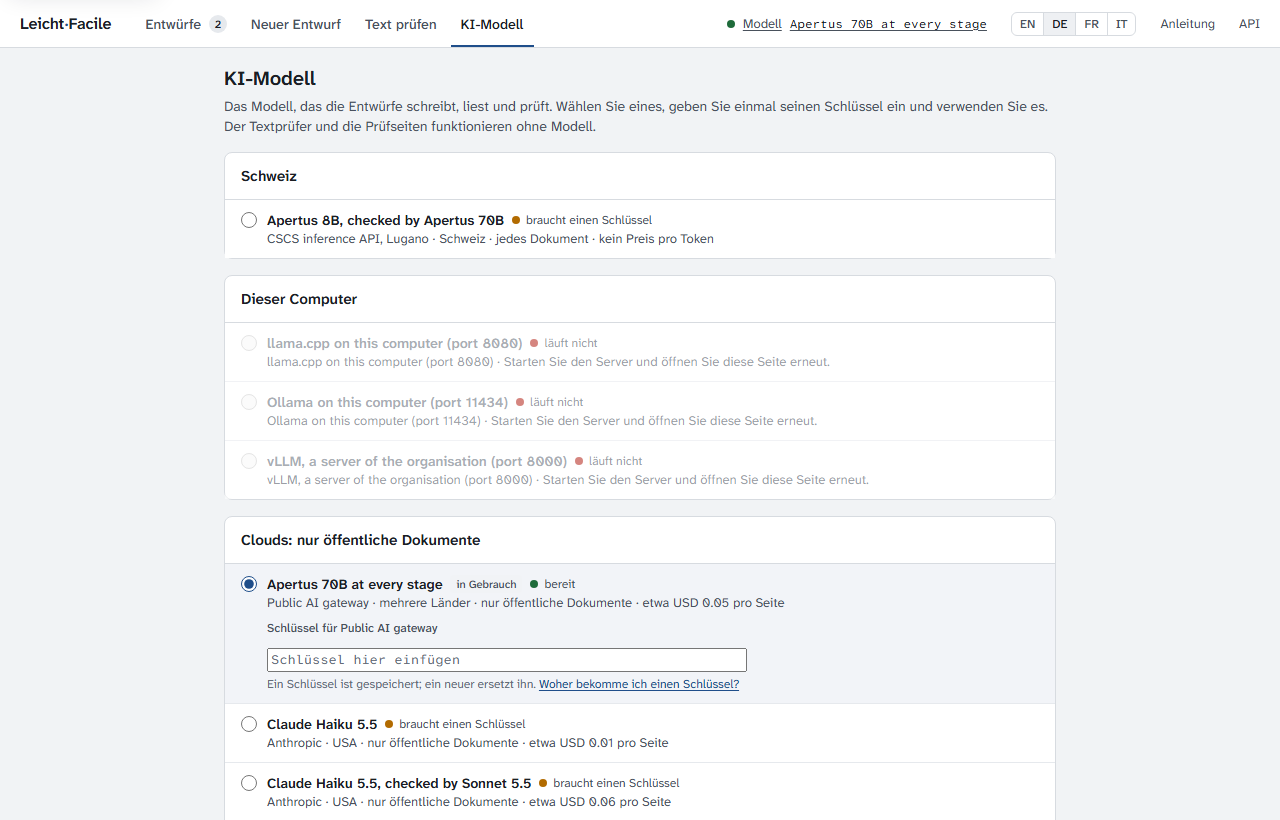
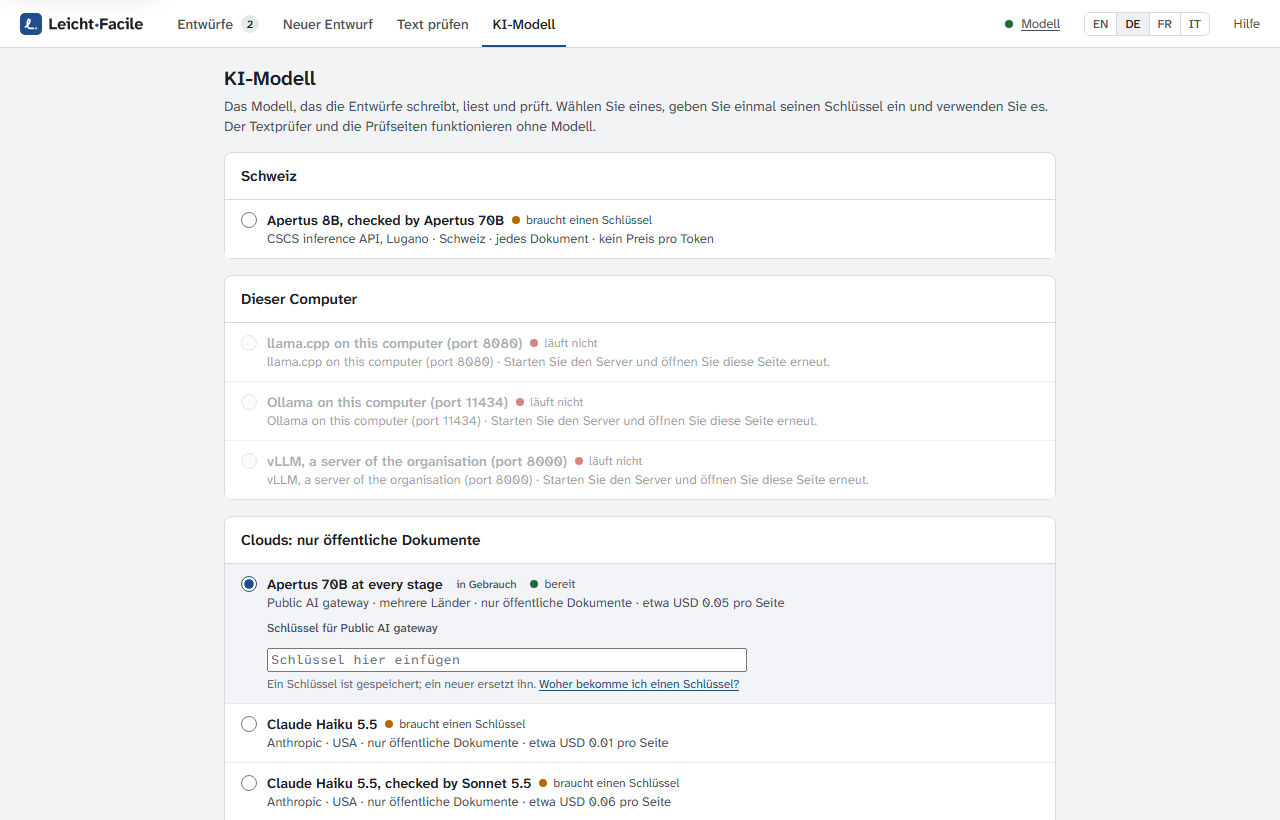
One-time hints with a cross, How it works in the empty state, a reviewer's app bar, examples by interface language

diff --git a/src/leichtfacile/web/templates/index.html b/src/leichtfacile/web/templates/index.html
@@ -11,19 +11,6 @@
     <a class="btn btn-primary btn-lg" href="/new">{{ icons.icon('plus') }}{{ t('site.new') }}</a>
   </div>
 
-  {% if total %}
-  <section class="intro" id="intro" aria-label="{{ t('drafts.how.title') }}">
-    <span class="intro-title">{{ t('drafts.how.title') }}</span>
-    <ol>
-      <li><span class="stepno" aria-hidden="true">1</span>{{ t('drafts.how.read') }}</li>
-      <li><span class="stepno" aria-hidden="true">2</span>{{ t('drafts.how.check', count=rule_count) }}</li>
-      <li><span class="stepno" aria-hidden="true">3</span>{{ t('drafts.how.judge') }}</li>
-      <li><span class="stepno" aria-hidden="true">4</span>{{ t('drafts.how.review') }}</li>
-    </ol>
-    <button type="button" class="btn btn-quiet btn-icon btn-sm js-only" id="intro-close" aria-label="{{ t('drafts.how.hide') }}">{{ icons.icon('x', 14) }}</button>
-  </section>
-  {% endif %}
-
   {# server.workspaces: the list belongs to this browser's workspace; the link opens it anywhere. #}
   {% if workspace_token %}
   <section class="ws-strip" aria-labelledby="workspace-title">
@@ -141,15 +128,34 @@
     <div class="empty">
       <h2>{{ t('drafts.empty.title') }}</h2>
       <p>{{ t('site.tagline', country=t.country) }}</p>
+      <section class="how" aria-labelledby="how-title">
+        <h3 id="how-title">{{ t('drafts.how.title') }}</h3>
+        <ol>
+          <li><span class="stepno" aria-hidden="true">1</span>{{ t('drafts.how.read') }}</li>
+          <li><span class="stepno" aria-hidden="true">2</span>{{ t('drafts.how.check', count=rule_count) }}</li>
+          <li><span class="stepno" aria-hidden="true">3</span>{{ t('drafts.how.judge') }}</li>
+          <li><span class="stepno" aria-hidden="true">4</span>{{ t('drafts.how.review') }}</li>
+        </ol>
+      </section>
       <p>{{ t('drafts.empty.text') }}</p>
+      {# The example letters: those in the interface language first (pages.featured_examples),
+         the others behind "More examples" (app.js; all of them without it). #}
+      {% if examples %}
       <div class="actions">
+        <span class="examples-label">{{ t('index.examples') }}</span>
         {% for e in examples %}<a class="btn" href="/new?example={{ e.id }}"{% if e.lang %} lang="{{ e.lang }}"{% endif %}>{{ e.title }}</a>{% endfor %}
-        <a class="btn btn-primary" href="/new">{{ icons.icon('plus') }}{{ t('site.new') }}</a>
+        {% if more_examples %}
+        <button type="button" class="btn btn-quiet js-only" data-more-examples>{{ t('index.more_examples') }}</button>
+        <span class="examples-more">{% for e in more_examples %}<a class="btn" href="/new?example={{ e.id }}"{% if e.lang %} lang="{{ e.lang }}"{% endif %}>{{ e.title }}</a>{% endfor %}</span>
+        {% endif %}
       </div>
+      {% endif %}
+      <div class="actions"><a class="btn btn-primary btn-lg" href="/new">{{ icons.icon('plus') }}{{ t('site.new') }}</a></div>
     </div>
     {% endif %}
   </div>
 
-  <p class="pagefoot">Leicht·Facile {{ version }}. {{ t('site.footer') }}</p>
+  {# The API's documentation pages exist when server.api_docs is on. #}
+  <p class="pagefoot">Leicht·Facile {{ version }}. {{ t('site.footer') }}{% if settings.server.api_docs %} <a href="/docs">API</a>{% endif %}</p>
 </div>
 {% endblock %}

diff --git a/src/leichtfacile/web/templates/base.html b/src/leichtfacile/web/templates/base.html
@@ -11,7 +11,18 @@
 <link rel="stylesheet" href="/static/app.css">
 <script nonce="{{ request.state.csp_nonce }}">
 document.documentElement.classList.add("js");
-try { if (localStorage.getItem("lf-intro-hidden") === "1") document.documentElement.classList.add("intro-hidden"); } catch (e) {}
+// The one-time hints closed in this browser (_hint.html; app.js keeps their names in
+// localStorage) are hidden before the first paint. A name is letters and hyphens.
+try {
+  var closed = JSON.parse(localStorage.getItem("lf-hints-hidden") || "[]");
+  var style = document.createElement("style");
+  style.id = "lf-hints";
+  style.textContent = (Array.isArray(closed) ? closed : [])
+    .filter(function (name) { return /^[a-z-]+$/.test(name); })
+    .map(function (name) { return '[data-hint="' + name + '"]{display:none !important}'; })
+    .join("");
+  document.head.appendChild(style);
+} catch (e) {}
 </script>
 </head>
 <body class="{% block body_class %}{% endblock %}">
@@ -25,10 +36,12 @@ try { if (localStorage.getItem("lf-intro-hidden") === "1") document.documentElem
     {% if model_page %}<a href="/model"{% if section == 'model' %} aria-current="page"{% endif %}>{{ t('site.model') }}</a>{% endif %}
   </nav>
   <span class="spacer"></span>
-  {# The preset in use: the dot follows /readyz (app.js); the name links to the model page. #}
-  <{{ 'a href="/model"' if model_page else 'span' }} class="endpoint" id="endpoint-status" data-endpoint data-url="/readyz" title="{{ t('js.endpoint.unknown') }}">
-    <span class="ep-dot" aria-hidden="true"></span><span class="ep-label">{{ t('site.endpoint') }}</span>
-    <code>{{ settings.llm.title if model_ready else t('model.none') }}</code><span class="visually-hidden" data-endpoint-text>{{ t('js.endpoint.unknown') }}</span>
+  {# The model in use: a dot that follows /readyz (app.js) and the word "Model" ("No
+     model" while the preset lacks its key); the preset's title and the status are the
+     tooltip and the text a screen reader hears. A link to the model page. #}
+  {% set model_status = (settings.llm.title ~ '. ' ~ t('js.endpoint.unknown')) if model_ready else t('model.none') %}
+  <{{ 'a href="/model"' if model_page else 'span' }} class="endpoint" id="endpoint-status" data-endpoint data-url="/readyz"{% if model_ready %} data-model="{{ settings.llm.title }}"{% endif %} title="{{ model_status }}">
+    <span class="ep-dot" aria-hidden="true"></span><span class="ep-label">{{ t('site.endpoint') if model_ready else t('site.no_model') }}</span><span class="visually-hidden" data-endpoint-text>{{ model_status }}</span>
   </{{ 'a' if model_page else 'span' }}>
   {% set languages = ui_languages() %}
   {% if languages | length > 1 %}
@@ -40,7 +53,6 @@ try { if (localStorage.getItem("lf-intro-hidden") === "1") document.documentElem
   </nav>
   {% endif %}
   <a class="api" href="{{ t('site.guide_url') }}" title="{{ t('site.guide_title') }}" target="_blank" rel="noopener">{{ t('site.guide') }}</a>
-  <a class="api" href="/docs">API</a>
 </header>
 {% if notice %}<div class="site-notice" role="note">{{ notice }}</div>{% endif %}
 <main id="main" tabindex="-1">

diff --git a/src/leichtfacile/web/templates/review.html b/src/leichtfacile/web/templates/review.html
@@ -1,6 +1,7 @@
 {% extends "base.html" %}
 {% import "_icons.html" as icons with context %}
 {% import "_menus.html" as menus with context %}
+{% import "_hint.html" as hints with context %}
 {% block title %}{{ t('review.title', title=title) }} - Leicht·Facile{% endblock %}
 {% block body_class %}fit-screen{% endblock %}
 {% block content %}
@@ -140,7 +141,8 @@
       </article>
     {% endfor %}
     {% if v.glossary_rows %}
-      <h3 class="draft-section" lang="{{ ui_lang }}">{{ t('review.glossary') }} <span class="hint">{{ t('review.glossary_review_hint') }}</span></h3>
+      <h3 class="draft-section" lang="{{ ui_lang }}">{{ t('review.glossary') }}</h3>
+      {{ hints.note('glossary', t('review.glossary_review_hint'), ui_lang) }}
       {% for g in v.glossary_rows %}
       <article class="block kind-glossary{% if g.decided %} decided {{ g.decided }}{% endif %}" id="blk-{{ g.gid }}"
                data-block="{{ g.gid }}" data-segments="" data-facts="" tabindex="0">
@@ -198,8 +200,8 @@
           </div>
           <div class="fs-legend" aria-hidden="true">{{ v.facts_text }}</div>
           {% endif %}
-          <p class="hint">{{ t('review.facts_hint') }}</p>
         </div>
+        {{ hints.note('facts', t('review.facts_hint')) }}
         {% for f in v.facts_sorted %}
         <button type="button" class="fact fact-{{ f.status }}" data-fact="{{ f.fact.id }}" data-fact-segments="{{ f.fact.segment_ids | join(' ') }}" aria-pressed="false">
           <span class="fact-top">{{ icons.sev(f.status) }}<span class="id">{{ f.fact.id }}</span>{% if f.expected %}<span class="chip" lang="{{ doc_lang }}">{{ f.expected }}</span>{% endif %}<span class="fstatus">{{ t('fact.' ~ f.status) }}</span></span>
@@ -221,7 +223,7 @@
 
       <section class="tabpanel" id="panel-findings" role="tabpanel" aria-labelledby="tab-findings">
         <h3 class="tabpanel-title">{{ t('review.doc_findings') }}</h3>
-        <p class="section-intro">{{ t('review.findings_hint') }}</p>
+        {{ hints.note('findings', t('review.findings_hint')) }}
         {% for g in v.finding_groups %}
         <div class="group">
           <div class="group-head">{{ icons.sev(g.worst, t('sev.' ~ g.worst)) }}<span class="rid">{{ g.rule_id }}</span><span class="title">{{ g.title }}</span><span class="n">{{ g.issues | length }}</span></div>
@@ -239,7 +241,7 @@
       <section class="tabpanel" id="panel-questions" role="tabpanel" aria-labelledby="tab-questions">
         <h3 class="tabpanel-title">{{ t('review.core') }}</h3>
         {% if v.core %}
-        <p class="section-intro">{{ t('review.core_hint') }}</p>
+        {{ hints.note('questions', t('review.core_hint')) }}
         <dl class="qa">
           {% for c in v.core %}
           <div><dt>{{ c.label }}</dt><dd lang="{{ doc_lang }}"{% if c.answer.segment_ids %} class="linkable" role="button" tabindex="0" data-segments="{{ c.answer.segment_ids | join(' ') }}"{% endif %}>{% if c.answer.text %}{{ c.answer.text }}{% else %}<span class="muted" lang="{{ ui_lang }}">{{ t('core.unanswered') }}</span>{% endif %}</dd></div>

diff --git a/src/leichtfacile/web/templates/_progress.html b/src/leichtfacile/web/templates/_progress.html
@@ -2,6 +2,7 @@
    root carries the header's running line, which app.js copies at every poll, and the
    running stage, which app.js announces when it changes. #}
 {% import "_icons.html" as icons with context %}
+{% import "_hint.html" as hints with context %}
 <div class="jobgrid" data-run="{{ t('progress.running_for', time=duration(p.elapsed_s), tokens=t.number(p.tokens)) }}" data-stage="{{ t('progress.stage_now', current=p.current_index, total=p.steps | length, stage=p.current.title) if p.current else '' }}">
   <section class="card pipeline" aria-labelledby="pipe-h">
     <div class="card-head">
@@ -52,7 +53,7 @@
     {% if p.factsheet or p.draft or p.live %}
     <div class="results-head">
       <h2>{{ t('progress.results') }}</h2>
-      {% if p.live %}<span class="hint">{{ t('progress.results_hint') }}</span>{% endif %}
+      {% if p.live %}{{ hints.note('results', t('progress.results_hint')) }}{% endif %}
     </div>
     {% endif %}
 

diff --git a/src/leichtfacile/web/templates/_hint.html b/src/leichtfacile/web/templates/_hint.html
@@ -1,0 +1,9 @@
+{# A one-time hint: a short explanation with a cross. The cross hides the note for good
+   in this browser: app.js keeps the name in localStorage, and the script in base.html
+   hides the closed notes before the first paint, so a re-rendered fragment (the
+   progress page) stays without it. Without JavaScript the note stays and has no cross.
+   Import with: {% import "_hint.html" as hints with context %}. #}
+{% import "_icons.html" as icons with context %}
+{% macro note(name, text, lang=None) -%}
+<div class="note" data-hint="{{ name }}"{% if lang %} lang="{{ lang }}"{% endif %}><p>{{ text }}</p><button type="button" class="btn btn-quiet btn-icon btn-sm js-only" data-hint-close aria-label="{{ t('hint.hide') }}">{{ icons.icon('x', 14) }}</button></div>
+{%- endmacro %}

diff --git a/src/leichtfacile/web/templates/check.html b/src/leichtfacile/web/templates/check.html
@@ -1,10 +1,11 @@
 {% extends "base.html" %}
 {% import "_icons.html" as icons with context %}
+{% import "_hint.html" as hints with context %}
 {% block title %}{{ t('site.check') }} - Leicht·Facile{% endblock %}
 {% block content %}
 <div class="page page-form">
-  <h1 style="margin-bottom: 4px">{{ t('site.check') }}</h1>
-  <p class="lead" style="margin-bottom: 16px">{{ t('check.intro', spelling=t.spelling) }}</p>
+  <h1 style="margin-bottom: 12px">{{ t('site.check') }}</h1>
+  {{ hints.note('check', t('check.intro', spelling=t.spelling)) }}
 
   {% if error %}
   <div class="alert form-error" role="alert">{{ icons.sev('error') }}<p>{{ error }}</p></div>

diff --git a/tests/web/test_ui.py b/tests/web/test_ui.py
@@ -168,11 +168,12 @@ def test_the_explanations_are_one_time_hints_with_a_cross(env) -> None:
     check = client.get("/check").text
     assert 'data-hint="check"' in check and 'aria-label="Hide this hint"' in check
     assert '"lf-hints-hidden"' in check  # the early script
-    job = queued_job(store, settings)
-    assert 'data-hint="results"' in client.get(f"/jobs/{job.id}").text
     review = client.get(f"/jobs/{run_c1(client, app, endpoint)}").text
     for name in ("facts", "findings", "questions", "glossary"):
         assert f'data-hint="{name}"' in review, name
+    # Last: the worker picks the queued job up and fails it for want of answers.
+    job = queued_job(store, settings)
+    assert 'data-hint="results"' in client.get(f"/jobs/{job.id}").text
 
 
 def test_pages_load_nothing_from_another_host() -> None:

diff --git a/docs/user-guide.md b/docs/user-guide.md
@@ -56,7 +56,7 @@ Click one to open the New draft form with the letter filled in.
 Some pages open with a short explanation in a box, such as the Facts tab of the review
 or Check my text. Once you know it, click the cross: the box stays away in this browser.
 
-![The start page before the first draft: the example letters and the New draft button](images/guide/en/01-start.webp)
+![The start page before the first draft: the four steps, the example letters and the New draft button](images/guide/en/01-start.webp)
 
 ## 2. Start a draft
 
